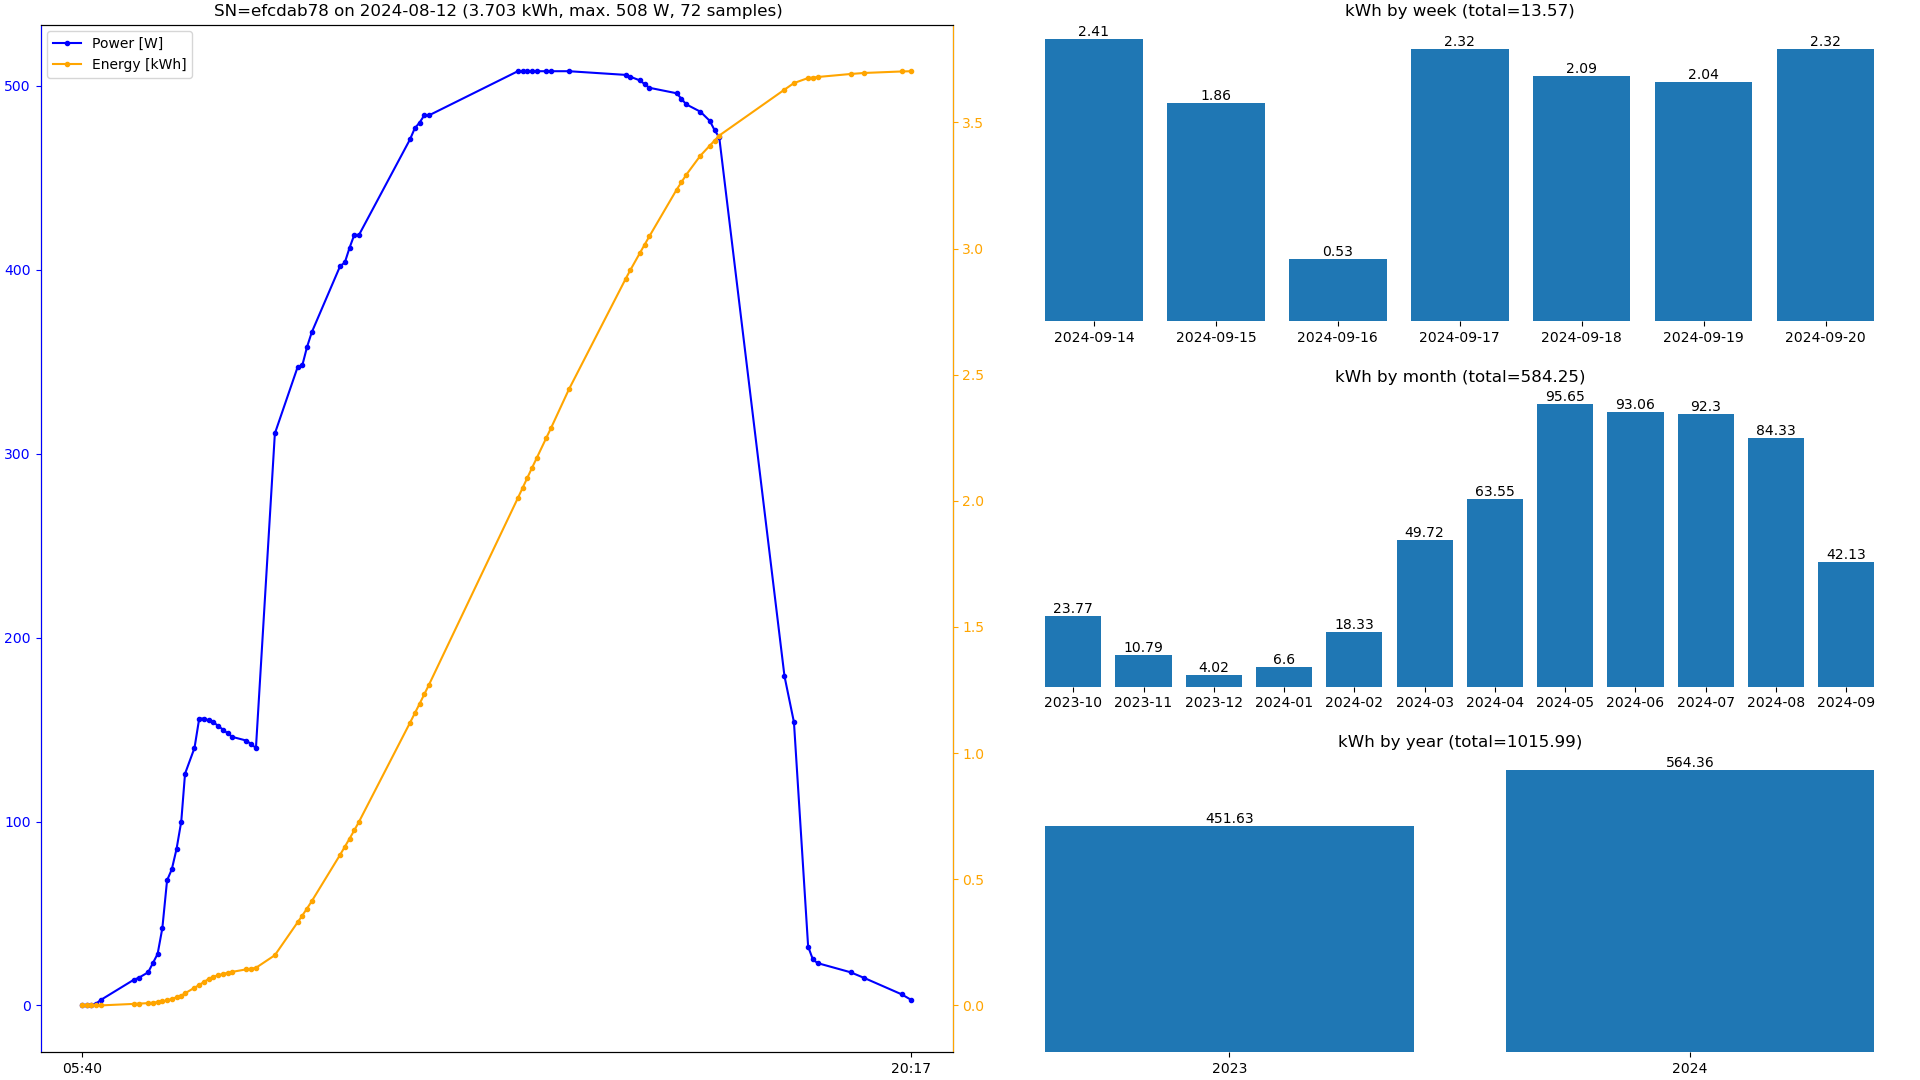
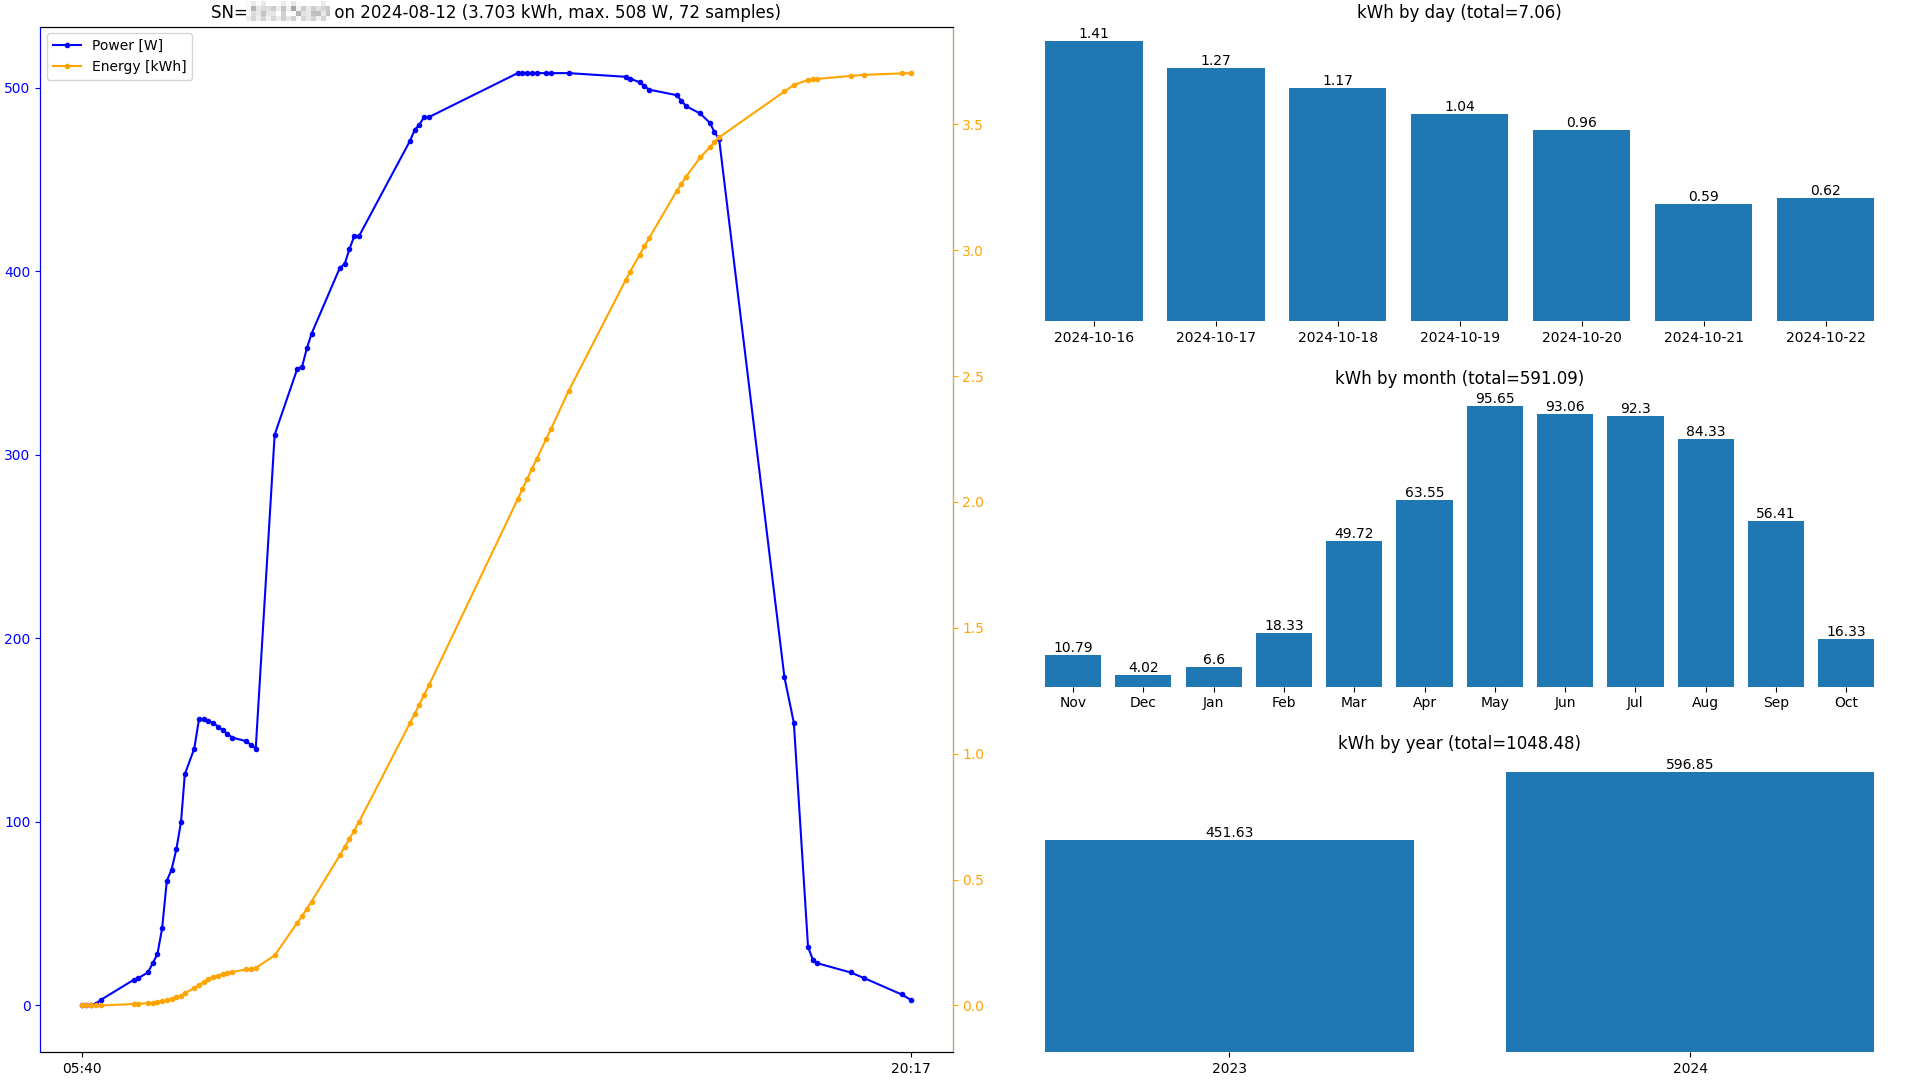
MMM instead of yyyy-mm in month plot

diff --git a/NEPviewerCR+.html b/NEPviewerCR+.html
@@ -95,8 +95,13 @@
           let i = 0;
           for (i=0; i<row.length && !row[i][1]; ++i)
             ;  // skip leading empty data, then process rest
+          let months = ['Jan','Feb','Mar','Apr','May','Jun',
+                        'Jul','Aug','Sep','Oct','Nov','Dec'];
           for (; i<row.length; ++i) {
-            data.push({ 'x': row[i][0].replace(/[/.]/g,'-'), 'y': row[i][1] });
+            let xv = row[i][0].replace(/[/.]/g,'-');
+            if (what=='month')
+              xv = months[xv.substr(5)-1];  // save some display space
+            data.push({ 'x': xv, 'y': row[i][1] });
             sum += row[i][1];
           }
           let graph = c3.generate({

diff --git a/NEPviewerCR+.py b/NEPviewerCR+.py
@@ -32,12 +32,9 @@ base_url = 'http://user.nepviewer.com/pv_monitor/proxy/'
 # load day data:
 url = f'{base_url }history/{serno}/{date}/{date}/0/1/2'
 data = json.loads(urlopen(url).read())['data']
-time_s = []
-w_s = []
-kwh_s = []
+time_s,w_s,kwh_s = [],[],[]
 if data:
     for line in data:
-        f = []
         f = line.split()
         if len(f) == 12:
             date,time,kw,dc,ac,x1,hz,c,kwh,x2,s1,s2 = f
@@ -54,6 +51,9 @@ ax_m = fig.add_subplot(gs[1,1],frameon=False)
 ax_y = fig.add_subplot(gs[2,1],frameon=False)
 ax_d_kwh = ax_d.twinx()
 
+def no_data(ax):
+    ax.text(0,0,'(no data)',color='red',va='center',ha='center')
+
 # day power:
 c = 'blue'
 ax_d.plot(time_s,w_s,label='Power [W]',marker='.',color=c)
@@ -66,11 +66,12 @@ ax_d_kwh.tick_params(axis='y',colors=c)
 ax_d_kwh.spines['right'].set_color(c)
 # day plot config:
 title = what
-if w_s: title += f' ({max(kwh_s)} kWh, max. {max(w_s)} W, {len(w_s)} samples)'
+if w_s:
+    title += f' ({max(kwh_s)} kWh, max. {max(w_s)} W, {len(w_s)} samples)'
+    ax_d.set_xticks([min(time_s),max(time_s)])
+else: no_data(ax_d)
 ax_d.set_title(title)
 ax_d.xaxis.set_major_formatter(DateFormatter('%H:%M'))
-if time_s: ax_d.set_xticks([min(time_s),max(time_s)])
-else: ax_d.text(0,0,'(no data)',color='red',va='center',ha='center')
 # combine labels from d and d_kwh into d legend:
 lines_d,labels_d = ax_d.get_legend_handles_labels()
 lines_d_kwh,labels_d_kwh = ax_d_kwh.get_legend_handles_labels()
@@ -79,19 +80,23 @@ ax_d.legend(lines_d+lines_d_kwh,labels_d+labels_d_kwh,loc='upper left')
 def bar_chart(what,ax):
     url = f'{base_url}{what}/{serno}/0/2/'
     data = json.loads(urlopen(url).read())['arr']
-    x = []
-    y = []
+    x,y = [],[]
     sum = 0
     for line in data:
         if x or line[1]:
-            x.append(line[0].replace('.','-'))
+            xv = line[0].replace('.','-')
+            if what=='month':  # save some display space
+                xv = ('Jan','Feb','Mar','Apr','May','Jun',
+                      'Jul','Aug','Sep','Oct','Nov','Dec')[int(xv[-2:])-1]
+            x.append(xv)
             y.append(line[1])
             sum += line[1]
-    ax.set_title(f'kWh by {what} (total={round(sum,2)})')
-    bar = ax.bar(x,y)
-    ax.bar_label(bar)
+    # fix week/day misnomer:
+    ax.set_title(f'kWh by {"day" if what=="week" else what} '+
+                 f'(total={round(sum,2)})')
+    ax.bar_label(ax.bar(x,y))
     ax.get_yaxis().set_visible(False)
-    if not x: ax.text(0,0,'(no data)',color='red',va='center',ha='center')
+    if not x: no_data(ax)
 
 bar_chart('week',ax_w)
 bar_chart('month',ax_m)
